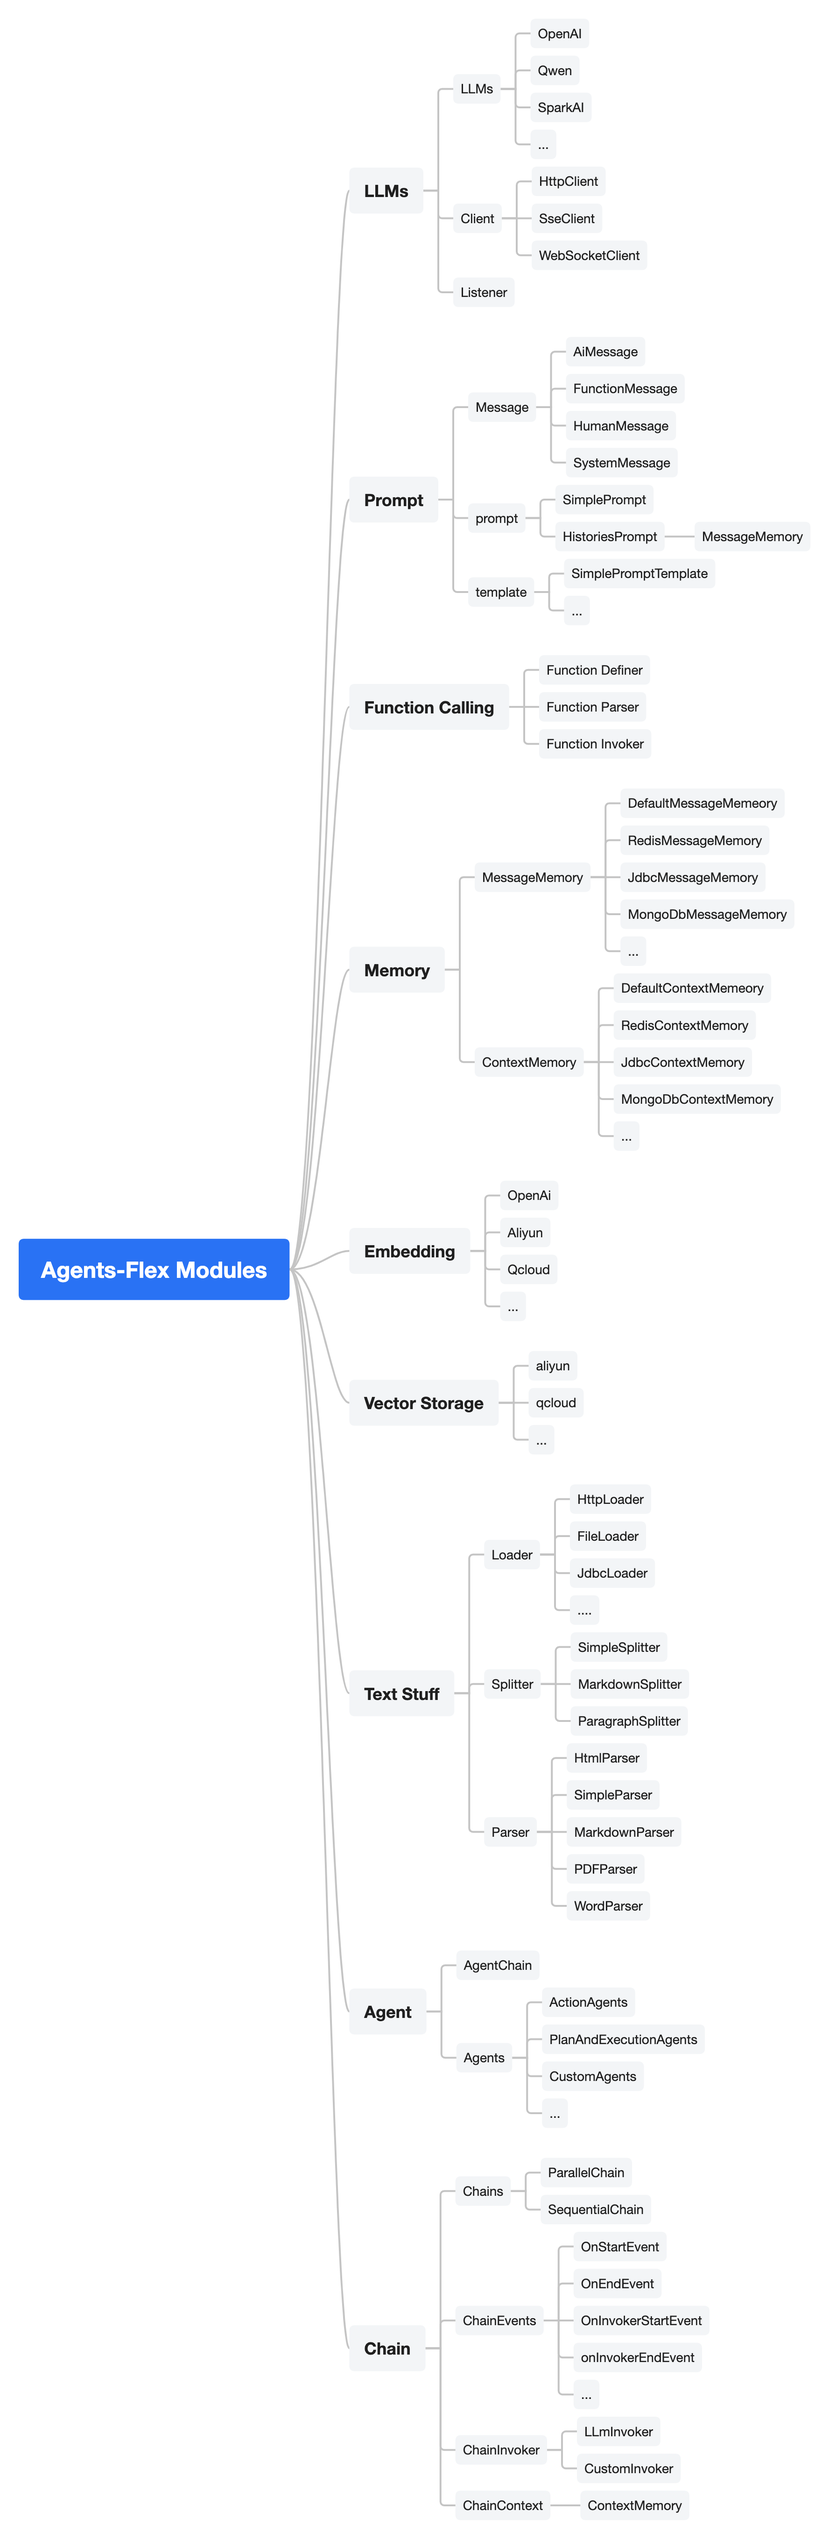
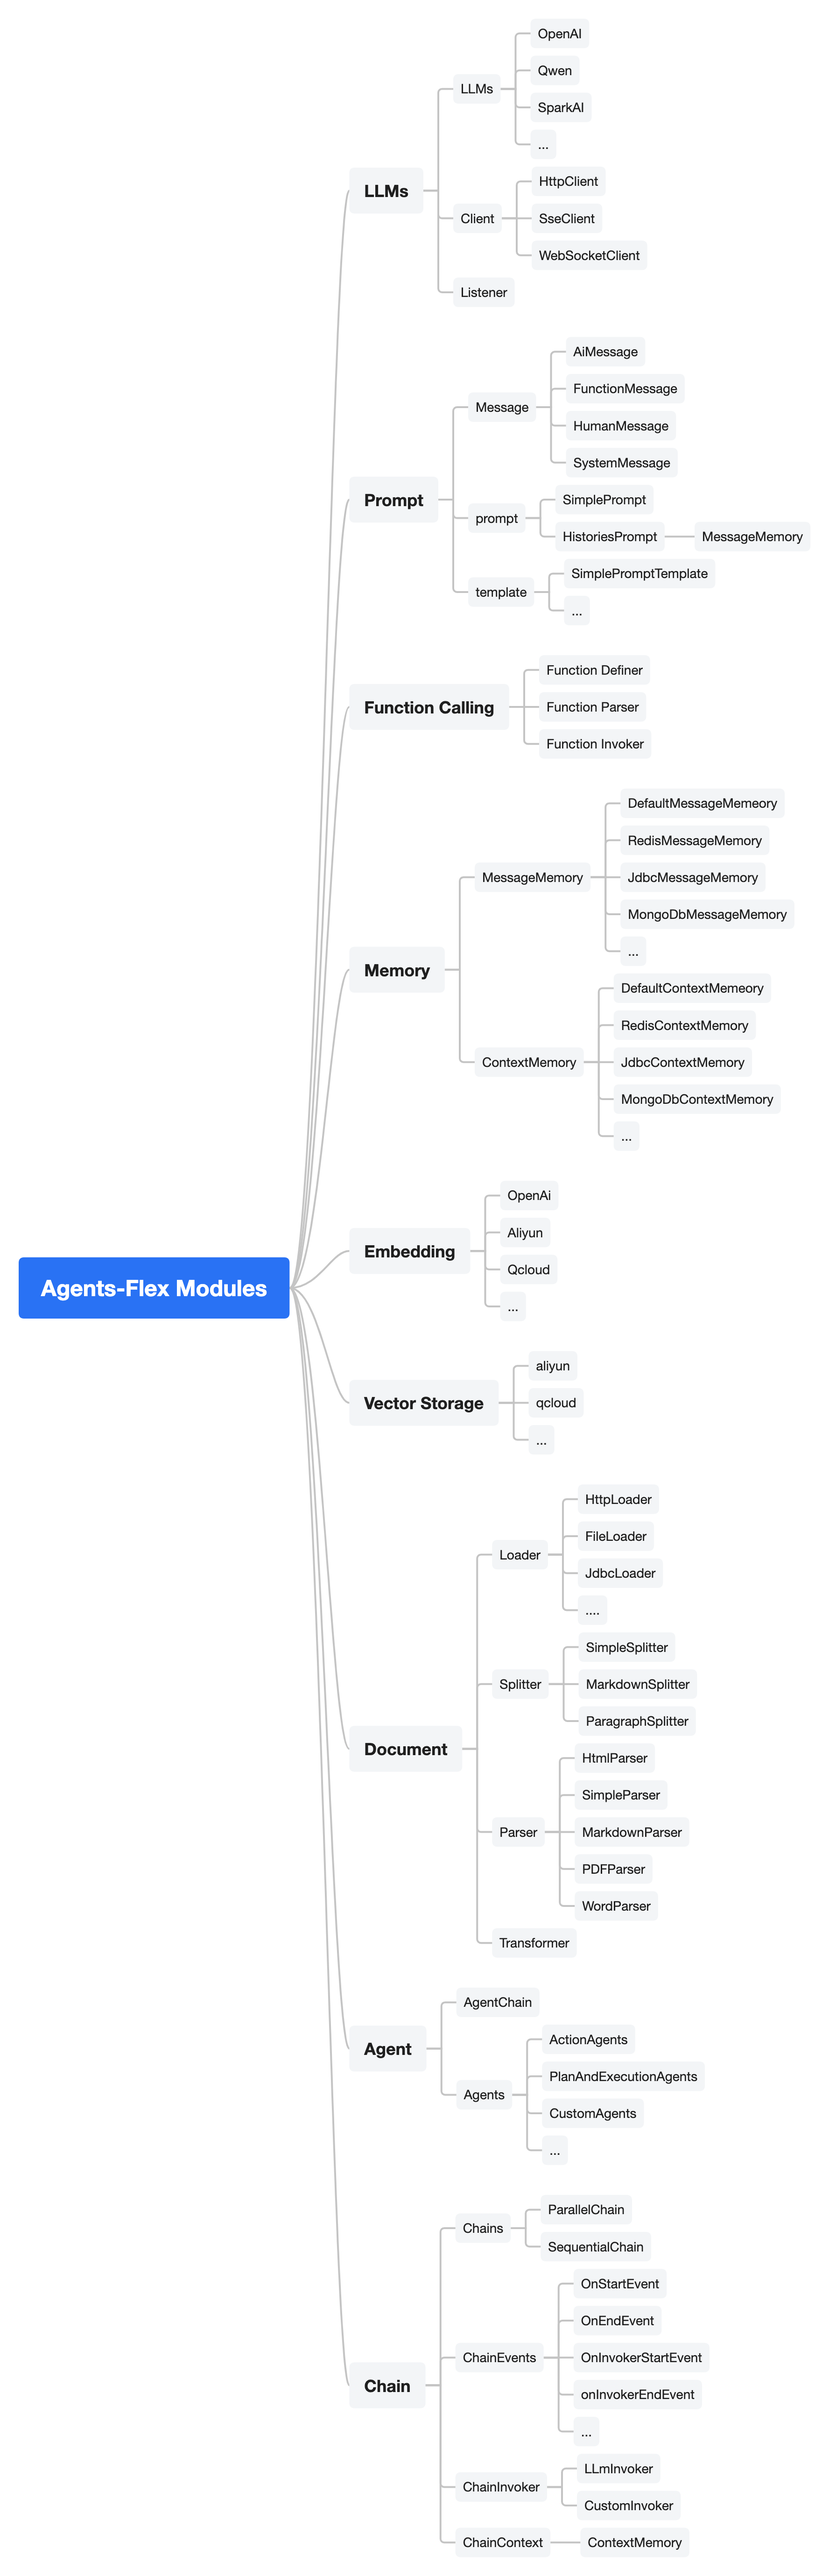
doc: update docs

diff --git a/readme_zh.md b/readme_zh.md
@@ -15,8 +15,14 @@
 - 记忆的能力（Memory）
 - Embedding
 - Vector Storage
-- 丰富的内容加载器
-- 丰富的文本分割器
+- 文档处理
+  - 加载器（Loader）
+    - Http
+    - FileSystem
+  - 分割器（Splitter）
+  - 解析器（Parser）
+    - PoiParser
+    - PdfBoxParser
 - LLM Chain
 - Agents Chain
 

diff --git a/readme.md b/readme.md
@@ -15,7 +15,12 @@
 - Embedding
 - Vector Storage
 - Resource Loaders
-- Text Splitter
+- Document
+  - Splitter
+  - Loader
+  - Parser
+    - PoiParser
+    - PdfBoxParser
 - LLMs Chain
 - Agents Chain
 
